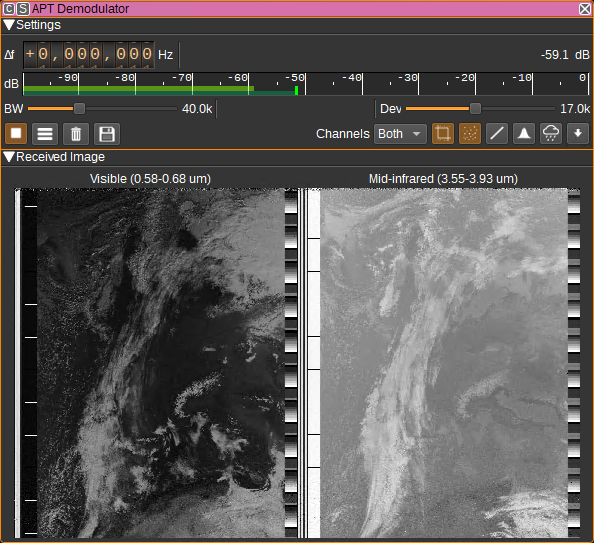
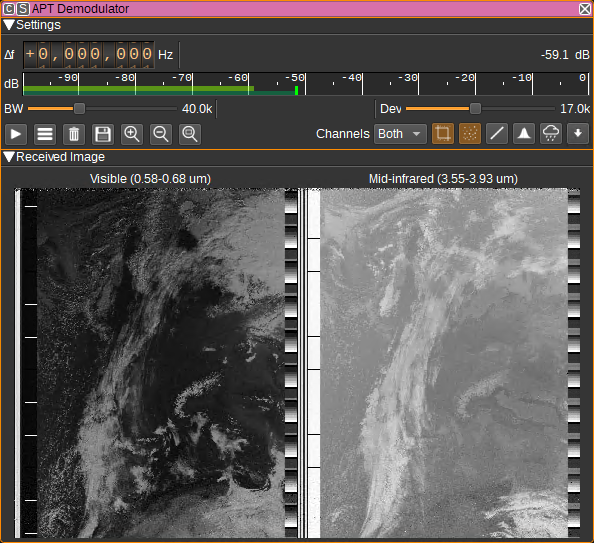
Add support for zooming in to image

Changed region(s): [[0.0909, 0.2063, 0.3636, 0.2652], [0.0, 0.2063, 0.0606, 0.2652]]

diff --git a/plugins/channelrx/demodapt/aptdemodgui.cpp b/plugins/channelrx/demodapt/aptdemodgui.cpp
@@ -25,9 +25,10 @@
 #include <QAction>
 #include <QRegExp>
 #include <QFileDialog>
+#include <QGraphicsScene>
+#include <QGraphicsPixmapItem>
 
 #include "aptdemodgui.h"
-#include "util/ax25.h"
 
 #include "device/deviceuiset.h"
 #include "dsp/dspengine.h"
@@ -42,6 +43,7 @@
 #include "gui/devicestreamselectiondialog.h"
 #include "dsp/dspengine.h"
 #include "gui/crightclickenabler.h"
+#include "gui/graphicsviewzoom.h"
 #include "channel/channelwebapiutils.h"
 #include "maincore.h"
 
@@ -101,7 +103,20 @@ bool APTDemodGUI::handleMessage(const Message& message)
         const APTDemod::MsgImage& imageMsg = (APTDemod::MsgImage&) message;
         m_image = imageMsg.getImage();
         m_pixmap.convertFromImage(m_image);
-        ui->image->setPixmap(m_pixmap);
+        if (m_pixmapItem != nullptr)
+        {
+            m_pixmapItem->setPixmap(m_pixmap);
+            if (ui->zoomAll->isChecked()) {
+                ui->image->fitInView(m_pixmapItem, Qt::KeepAspectRatio);
+            }
+        }
+        else
+        {
+            m_pixmapItem = m_scene->addPixmap(m_pixmap);
+            m_pixmapItem->setPos(0, 0);
+            ui->image->fitInView(m_pixmapItem, Qt::KeepAspectRatio);
+        }
+
         QStringList imageTypes = imageMsg.getImageTypes();
         if (imageTypes.size() == 0)
         {
@@ -171,7 +186,19 @@ bool APTDemodGUI::handleMessage(const Message& message)
         }
 
         m_pixmap.convertFromImage(m_image);
-        ui->image->setPixmap(m_pixmap);
+        if (m_pixmapItem != nullptr)
+        {
+            m_pixmapItem->setPixmap(m_pixmap);
+            if (ui->zoomAll->isChecked()) {
+                ui->image->fitInView(m_pixmapItem, Qt::KeepAspectRatio);
+            }
+        }
+        else
+        {
+            m_pixmapItem = m_scene->addPixmap(m_pixmap);
+            m_pixmapItem->setPos(0, 0);
+            ui->image->fitInView(m_pixmapItem, Qt::KeepAspectRatio);
+        }
 
         return true;
     }
@@ -302,7 +329,9 @@ void APTDemodGUI::on_startStop_clicked(bool checked)
 
 void APTDemodGUI::on_resetDecoder_clicked()
 {
-    ui->image->setPixmap(QPixmap());
+    if (m_pixmapItem != nullptr) {
+        m_pixmapItem->setPixmap(QPixmap());
+    }
     ui->imageContainer->setWindowTitle("Received image");
     // Send message to reset decoder
     m_aptDemod->getInputMessageQueue()->push(APTDemod::MsgResetDecoder::create());
@@ -330,6 +359,30 @@ void APTDemodGUI::on_saveImage_clicked()
                 QMessageBox::critical(this, "APT Demodulator", QString("Failed to save image to %1").arg(fileNames[0]));
         }
     }
+}
+
+void APTDemodGUI::on_zoomIn_clicked()
+{
+    m_zoom->gentleZoom(1.25);
+    ui->zoomAll->setChecked(false);
+}
+
+void APTDemodGUI::on_zoomOut_clicked()
+{
+    m_zoom->gentleZoom(0.75);
+    ui->zoomAll->setChecked(false);
+}
+
+void APTDemodGUI::on_zoomAll_clicked(bool checked)
+{
+    if (checked && (m_pixmapItem != nullptr)) {
+        ui->image->fitInView(m_pixmapItem, Qt::KeepAspectRatio);
+    }
+}
+
+void APTDemodGUI::on_image_zoomed()
+{
+    ui->zoomAll->setChecked(false);
 }
 
 void APTDemodGUI::onWidgetRolled(QWidget* widget, bool rollDown)
@@ -389,7 +442,9 @@ APTDemodGUI::APTDemodGUI(PluginAPI* pluginAPI, DeviceUISet *deviceUISet, Baseban
     m_deviceUISet(deviceUISet),
     m_channelMarker(this),
     m_doApplySettings(true),
-    m_tickCount(0)
+    m_tickCount(0),
+    m_scene(nullptr),
+    m_pixmapItem(nullptr)
 {
     ui->setupUi(this);
 
@@ -424,6 +479,13 @@ APTDemodGUI::APTDemodGUI(PluginAPI* pluginAPI, DeviceUISet *deviceUISet, Baseban
     connect(&m_channelMarker, SIGNAL(changedByCursor()), this, SLOT(channelMarkerChangedByCursor()));
     connect(&m_channelMarker, SIGNAL(highlightedByCursor()), this, SLOT(channelMarkerHighlightedByCursor()));
     connect(getInputMessageQueue(), SIGNAL(messageEnqueued()), this, SLOT(handleInputMessages()));
+
+    m_zoom = new GraphicsViewZoom(ui->image); // Deleted automatically when view is deleted
+    connect(m_zoom, SIGNAL(zoomed()), this, SLOT(on_image_zoomed()));
+
+    m_scene = new QGraphicsScene(ui->image);
+    ui->image->setScene(m_scene);
+    ui->image->show();
 
     displaySettings();
     applySettings(true);

diff --git a/plugins/channelrx/demodapt/aptdemodgui.h b/plugins/channelrx/demodapt/aptdemodgui.h
@@ -42,6 +42,9 @@ class DeviceUISet;
 class BasebandSampleSink;
 class APTDemod;
 class APTDemodGUI;
+class QGraphicsScene;
+class QGraphicsPixmapItem;
+class GraphicsViewZoom;
 
 namespace Ui {
     class APTDemodGUI;
@@ -79,6 +82,9 @@ private:
 
     QImage m_image;
     QPixmap m_pixmap;
+    QGraphicsScene* m_scene;
+    QGraphicsPixmapItem* m_pixmapItem;
+    GraphicsViewZoom* m_zoom;
 
     explicit APTDemodGUI(PluginAPI* pluginAPI, DeviceUISet *deviceUISet, BasebandSampleSink *rxChannel, QWidget* parent = 0);
     virtual ~APTDemodGUI();
@@ -107,6 +113,10 @@ private slots:
     void on_showSettings_clicked();
     void on_resetDecoder_clicked();
     void on_saveImage_clicked();
+    void on_zoomIn_clicked();
+    void on_zoomOut_clicked();
+    void on_zoomAll_clicked(bool checked=false);
+    void on_image_zoomed();
     void onWidgetRolled(QWidget* widget, bool rollDown);
     void onMenuDialogCalled(const QPoint& p);
     void handleInputMessages();

diff --git a/plugins/channelrx/demodapt/aptdemod.cpp b/plugins/channelrx/demodapt/aptdemod.cpp
@@ -584,6 +584,7 @@ int APTDemod::webapiActionsPost(
         {
             SWGSDRangel::SWGAPTDemodActions_aos* aos = swgAPTDemodActions->getAos();
             QString *satelliteName = aos->getSatelliteName();
+            qDebug() << "APTDemod::webapiActionsPost - AOS " << *satelliteName;
             if (satelliteName != nullptr)
             {
                 if (matchSatellite(*satelliteName))
@@ -617,6 +618,7 @@ int APTDemod::webapiActionsPost(
         {
             SWGSDRangel::SWGAPTDemodActions_los* los = swgAPTDemodActions->getLos();
             QString *satelliteName = los->getSatelliteName();
+            qDebug() << "APTDemod::webapiActionsPost - LOS " << *satelliteName;
 
             if (satelliteName != nullptr)
             {
